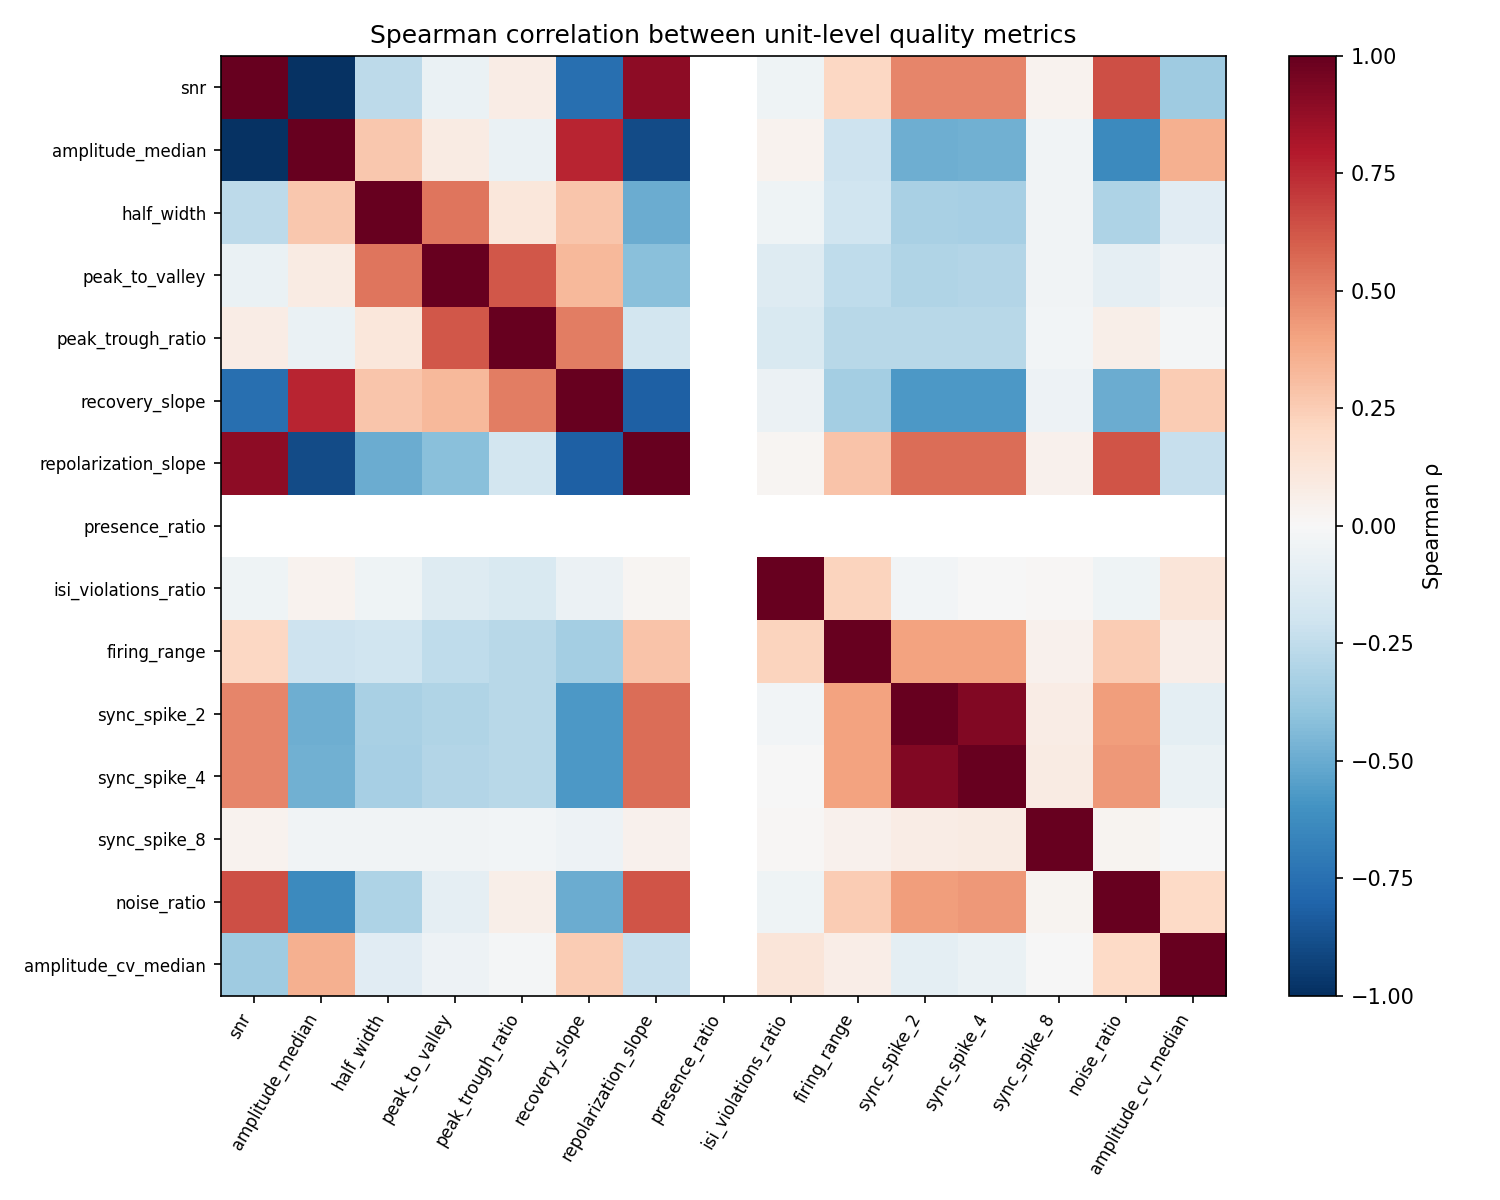
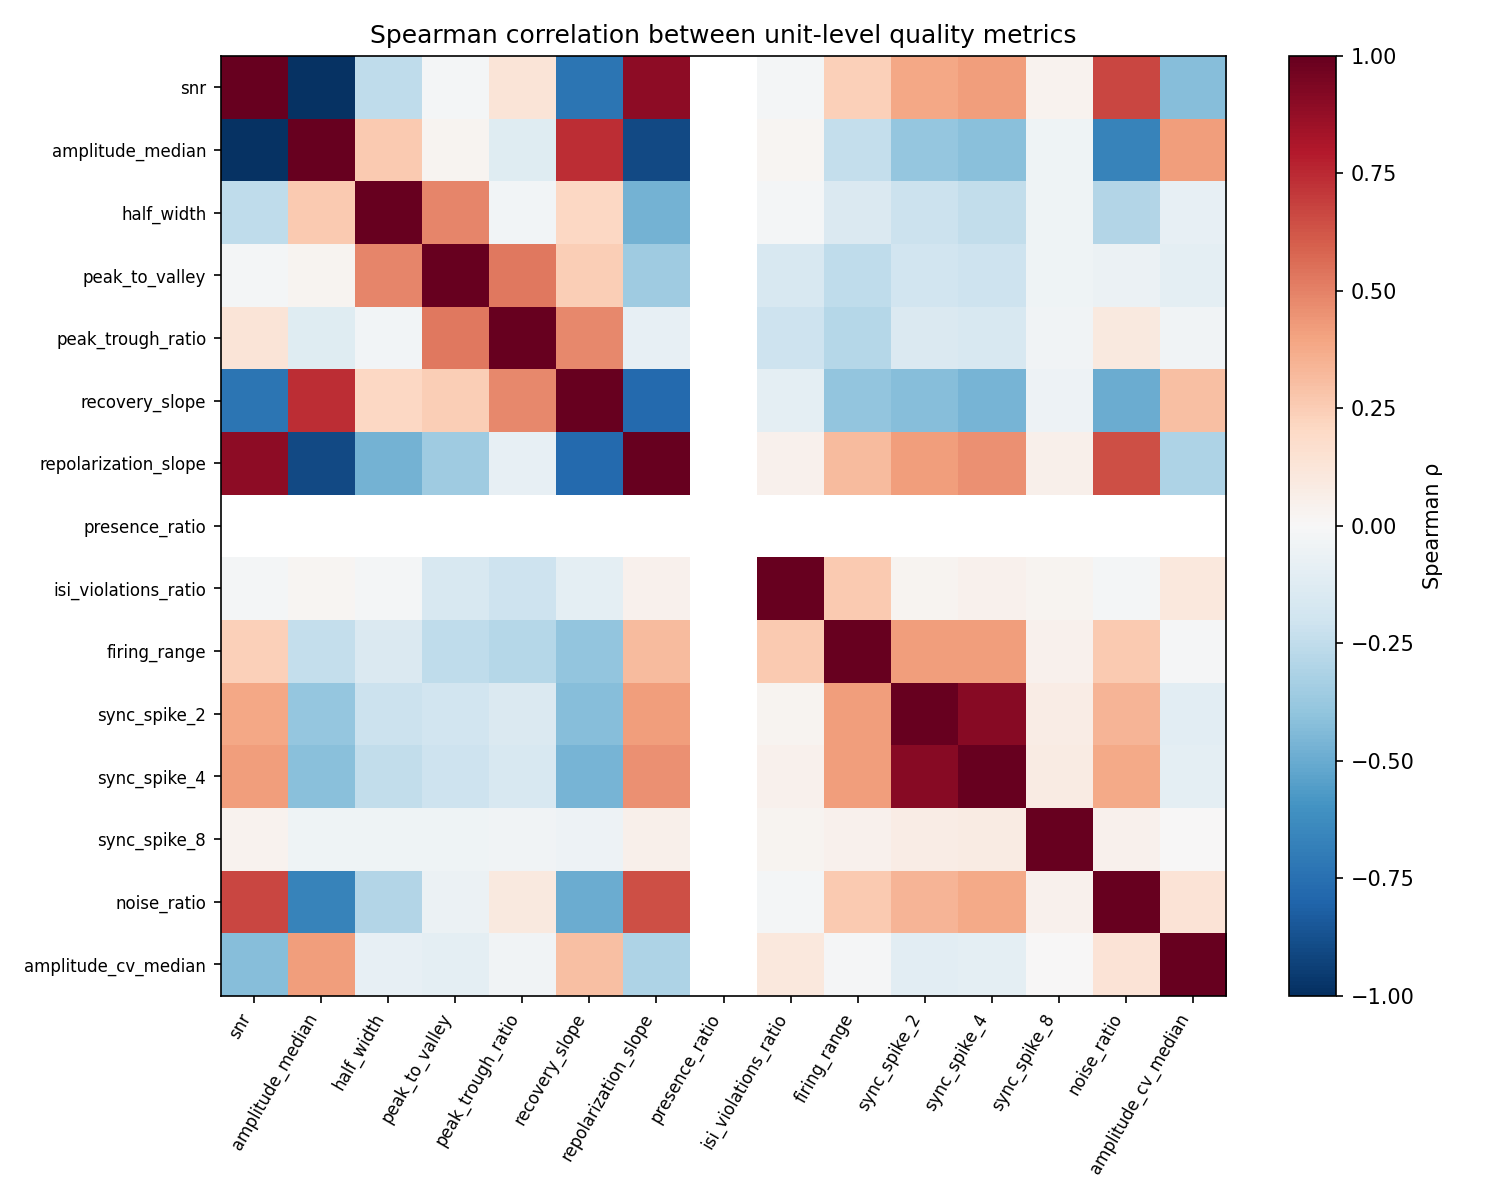
Add EDA plots, config updates, and NRP job yaml for HIPPIE training

diff --git a/config.py b/config.py
@@ -15,8 +15,12 @@ PROJECT_ROOT = Path(__file__).resolve().parent
 
 # ── Raw data ──────────────────────────────────────────────────────────────
 # Kilosort spike-sorted outputs organized by date/mouse/run/well
-DATA_RAW    = PROJECT_ROOT / "data" / "raw"       # T4 (original + remaining)
-DATA_RAW_T3 = PROJECT_ROOT / "data" / "raw_t3"    # T3 experiment
+DATA_RAW    = PROJECT_ROOT / "data" / "raw"
+DATA_RAW_T3 = PROJECT_ROOT / "data" / "FolicAcid_T3_10222024_PS_PhyExport" / \
+              "FolicAcid_T3_10222024_PS_PhyExport" / \
+              "FolicAcid_T3_10222024_PS_PhyExport"
+#DATA_RAW    = PROJECT_ROOT / "data" / "raw"       # T4 (original + remaining)
+#DATA_RAW_T3 = PROJECT_ROOT / "data" / "raw_t3"    # T3 experiment
 
 # ── Preprocessed data ─────────────────────────────────────────────────────
 # Per-well CSVs (waveforms, ISI, ACG, metadata) generated by 00_preprocess.py
@@ -36,8 +40,12 @@ HIPPIE_INPUT = Path(os.environ.get(
 # T3 dataset
 HIPPIE_INPUT_T3 = Path(os.environ.get(
     "HIPPIE_INPUT_T3_DIR",
-    "/home/jesus/datasets_hippie/FA_T3"
+    str(PROJECT_ROOT / "data" / "hippie_input_t3")
 ))
+#HIPPIE_INPUT_T3 = Path(os.environ.get(
+#    "HIPPIE_INPUT_T3_DIR",
+#    "/home/jesus/datasets_hippie/FA_T3"
+#))
 
 # Key files inside HIPPIE_INPUT (T4)
 METADATA_CSV  = HIPPIE_INPUT / "metadata.csv"

diff --git a/scripts/02_raw_metric_eda.py b/scripts/02_raw_metric_eda.py
@@ -28,9 +28,11 @@ from scipy import stats
 # ─── Paths (from config.py) ──────────────────────────────────────────────────
 import sys
 sys.path.insert(0, str(Path(__file__).resolve().parent.parent))
-from config import METADATA_CSV, RESULTS_EDA
+#from config import METADATA_CSV, RESULTS_EDA
+from config import METADATA_CSV_T3, RESULTS_EDA
 
-META_PATH = METADATA_CSV
+META_PATH = METADATA_CSV_T3
+#META_PATH = METADATA_CSV
 OUT_DIR   = RESULTS_EDA
 OUT_DIR.mkdir(parents=True, exist_ok=True)
 
